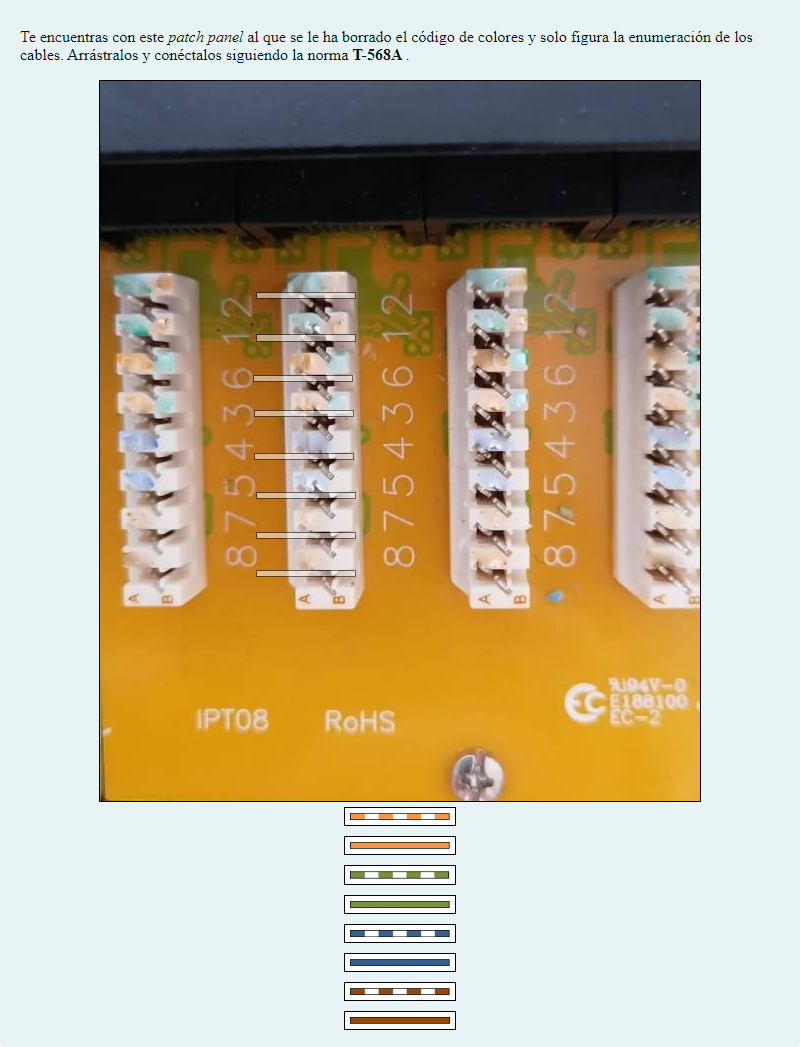
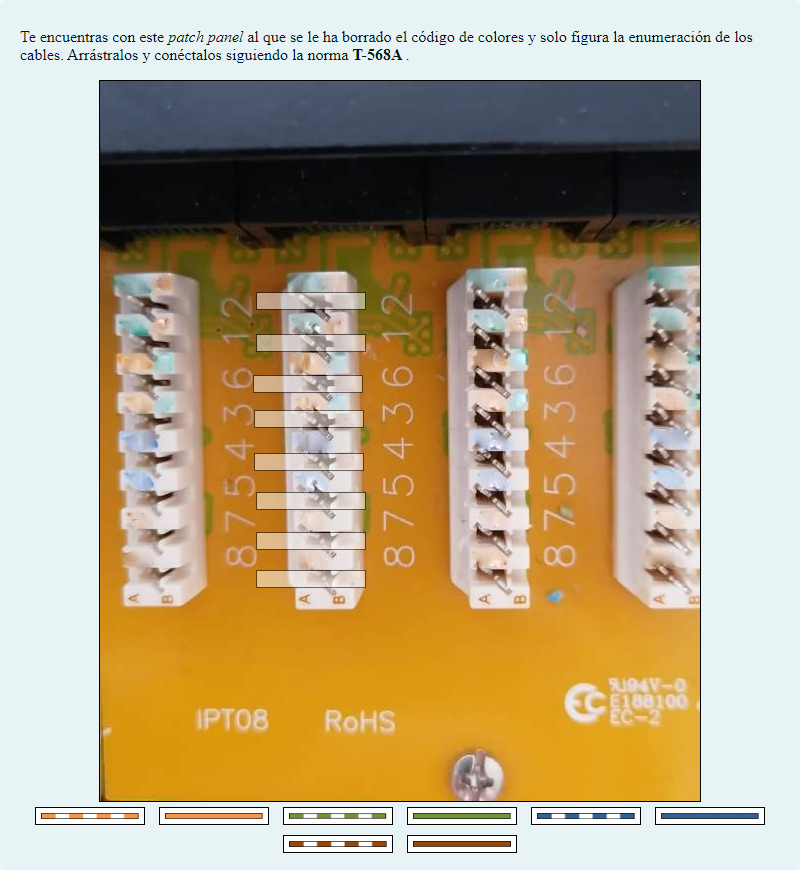
mejora en renderizado de preguntas tipo ddimageortext: agrupadas por draggroup

diff --git a/.actirepo/templates/ddimageortext.template.html b/.actirepo/templates/ddimageortext.template.html
@@ -1,3 +1,4 @@
+{% set padding = 5 %}
 <div style="color:rgb(0, 26, 30);background-color:rgb(231, 243, 245);border-color:rgb(184, 220, 226);position:relative;padding:12px 20px;margin-bottom:16px;border:0px solid rgb(184, 220, 226);border-radius:4px;box-sizing:border-box; width: 800px;">
     <div style="margin-bottom:7.5px;box-sizing:border-box;display:block;">
         {{ question.statement }}
@@ -6,25 +7,34 @@
         <div style="box-sizing:border-box;display:inline-block;position:relative;">
             <img src="{{ question.background }}" alt="Imagen de fondo para arrastrar marcadores dentro de este" style="width: 100% !important;max-width:100%;height: auto;vertical-align:middle;border-style:solid;box-sizing:border-box;border:1px solid rgb(0, 0, 0);margin: 0px auto;" />
             <div style="box-sizing:border-box;position:absolute;top:0px;left:0px;">
-                {% for choice, drop in question.drops.items() %}
-                <div tabindex="0" style="width: {{ question.drags[choice].size[0] }}px; height: {{ question.drags[choice].size[1] }}px; left: {{ drop.xleft }}px; top: {{ drop.ytop }}px; transform: scale(1); transform-origin: left top;transform:matrix(1, 0, 0, 1, 0, 0);transform-origin:0px 0px;box-sizing:border-box;background-color:rgb(255, 255, 255);display:block;position:absolute;opacity:0.5;border:1px solid rgb(0, 0, 0);"><span style="position:absolute;width: 1px;height:1px;padding:0px;margin:-1px;overflow:hidden;clip:rect(0px, 0px, 0px, 0px);white-space:nowrap;border:0px none rgb(0, 26, 30);box-sizing:border-box;">vacío</span>&nbsp;</div>
-                {% endfor %}
+            {% for choice, drop in question.drops.items() %}
+                {% set drag = question.drags[choice] %}
+                {% set maxsize = question.draggroups_size[drag.draggroup] %}
+                {% set width = maxsize.width + padding * 2 %}
+                {% set height = maxsize.height + padding * 2 %}    
+                <div tabindex="0" style="width: {{width}}px; height: {{height}}px; left: {{ drop.xleft }}px; top: {{ drop.ytop }}px; transform: scale(1); transform-origin: left top;transform:matrix(1, 0, 0, 1, 0, 0);transform-origin:0px 0px;box-sizing:border-box;background-color:rgb(255, 255, 255);display:block;position:absolute;opacity:0.5;border:1px solid rgb(0, 0, 0);">
+                    <span style="position:absolute;width: 1px;height:1px;padding:0px;margin:-1px;overflow:hidden;clip:rect(0px, 0px, 0px, 0px);white-space:nowrap;border:0px none rgb(0, 26, 30);box-sizing:border-box;">vacío</span>&nbsp;
+                </div>
+            {% endfor %}
             </div>
         </div>
         <div style="box-sizing:border-box;">
-            {% for no, drag in question.drags.items() %}
-            {% if drag.type == 'image' %}
+        {% for draggroup, drag_nos  in question.draggroups.items() %}
+            <!-- draggroup {{draggroup}} : {{drag_nos}} -->
             <div style="box-sizing:border-box;">
-                <img src="{{ drag.image }}" alt="{{ drag.text }}" style="padding: 5px;vertical-align:top;border-style:solid;box-sizing:border-box;background-color:rgb(255, 255, 255);display:none;margin:5px;height: auto;width: auto;cursor:move;border:1px solid rgb(0, 0, 0);font:13px / 16.003px arial, helvetica, clean, sans-serif;" />
-                <img src="{{ drag.image }}" alt="{{ drag.text }}" style="padding: 5px;user-select:none;vertical-align:top;border-style:solid;box-sizing:border-box;background-color:rgb(255, 255, 255);margin:5px;height: auto;width: auto;cursor:move;border:1px solid rgb(0, 0, 0);display:inline-block;font:13px / 16.003px arial, helvetica, clean, sans-serif;" />
-            </div>
-            {% else %}
-            <div style="box-sizing:border-box;">
-                <div style="padding: 5px;box-sizing:border-box;background-color:rgb(220, 220, 220);border-radius:0px 0px 0px 0px;display:none;vertical-align:top;margin:5px;height: auto;width: auto;cursor:move;border:1px solid rgb(0, 0, 0);font:13px / 16.003px arial, helvetica, clean, sans-serif;">{{ drag.text }}</div>
-                <div style="padding: 5px;user-select:none;box-sizing:border-box;background-color:rgb(220, 220, 220);border-radius:0px 0px 0px 0px;vertical-align:top;margin:5px;height: auto;width: auto;cursor:move;border:1px solid rgb(0, 0, 0);display:inline-block;font:13px / 16.003px arial, helvetica, clean, sans-serif;">{{ drag.text }}</div>
-            </div>
-            {% endif %}
+            {% set maxsize = question.draggroups_size[draggroup] %}
+            {% set width = maxsize.width + padding * 2 %}
+            {% set height = maxsize.height + padding * 2 %}
+            {% for no in drag_nos %}
+                {% set drag = question.drags[no] %}                
+                {% if drag.type == 'image' %}
+                <img src="{{ drag.image }}" alt="None" style="height: {{height}}px;width: {{width}}px;padding: {{padding}}px;user-select:none;vertical-align:top;border-style:solid;box-sizing:border-box;background-color:rgb(255, 255, 255);margin:5px;cursor:move;border:1px solid rgb(0, 0, 0);display:inline-block;font:13px / 16.003px arial, helvetica, clean, sans-serif;" />
+                {% else %}
+                <div style="height: {{height}};width: {{width}};padding: {{padding}}px;user-select:none;box-sizing:border-box;background-color:rgb(220, 220, 220);border-radius:0px 0px 0px 0px;vertical-align:top;margin:5px;cursor:move;border:1px solid rgb(0, 0, 0);display:inline-block;font:13px / 16.003px arial, helvetica, clean, sans-serif;">{{ drag.text }}</div>
+                {% endif %}
             {% endfor %}
+            </div>
+        {% endfor %}
         </div>
     </div>
 </div>

diff --git a/.actirepo/activity.py b/.actirepo/activity.py
@@ -99,7 +99,11 @@ def _get_image_size(file):
     if file is None:
         return None
     with Image.open(io.BytesIO(base64.decodebytes(bytes(file.text, "utf-8")))) as img:
-        return img.size
+        size = img.size
+        return {
+            "width": size[0],
+            "height": size[1]
+        }
 
 # process attachments in question element
 def _process_attachments(element):
@@ -127,7 +131,11 @@ def _drop_text_size(text):
         <div style="padding: 5px;user-select:none;box-sizing:border-box;background-color:rgb(220, 220, 220);border-radius:0px 10px 0px 0px;vertical-align:top;margin:5px;height: auto;width: auto;cursor:move;border:1px solid rgb(0, 0, 0);display:inline-block;font:13px / 16.003px arial, helvetica, clean, sans-serif;">{text}</div>
     </div>
     """
-    return htmlsize(html)
+    size = htmlsize(html)
+    return {
+        "width": size[0],
+        "height": size[1]
+    }
 
 # format bytes to human readable format
 def _format_bytes(size):
@@ -229,6 +237,33 @@ def _render_image(question, destination_dir):
                     }
                 }
             )
+            # add drag sizes to drops
+            for choice, drop in question_data['drops'].items():
+                drop['size'] = question_data['drags'][choice]['size']
+            # group drags by draggroup
+            question_data['draggroups'] = {}
+            for drag in question_data['drags'].values():
+                if not drag['draggroup'] in question_data['draggroups']:
+                    question_data['draggroups'][drag['draggroup']] = [ drag['no'] ]
+                else:
+                    question_data['draggroups'][drag['draggroup']].append(drag['no'])
+            # get max width and height for each draggroup
+            question_data['draggroups_size'] = {}
+            for draggroup, drags in question_data['draggroups'].items():
+                max_width = 0
+                max_height = 0
+                for drag_no in drags:
+                    print(question_data['drags'][drag_no])
+                    drag_size = question_data['drags'][drag_no]['size']
+                    if drag_size['width'] > max_width:
+                        max_width = drag_size['width']
+                    if drag_size['height'] > max_height:
+                        max_height = drag_size['height']
+                question_data['draggroups_size'][draggroup] = {
+                    "width": max_width,
+                    "height": max_height
+                }
+            pprint(question_data)
         case "essay":
             question_data.update(
                 { 
